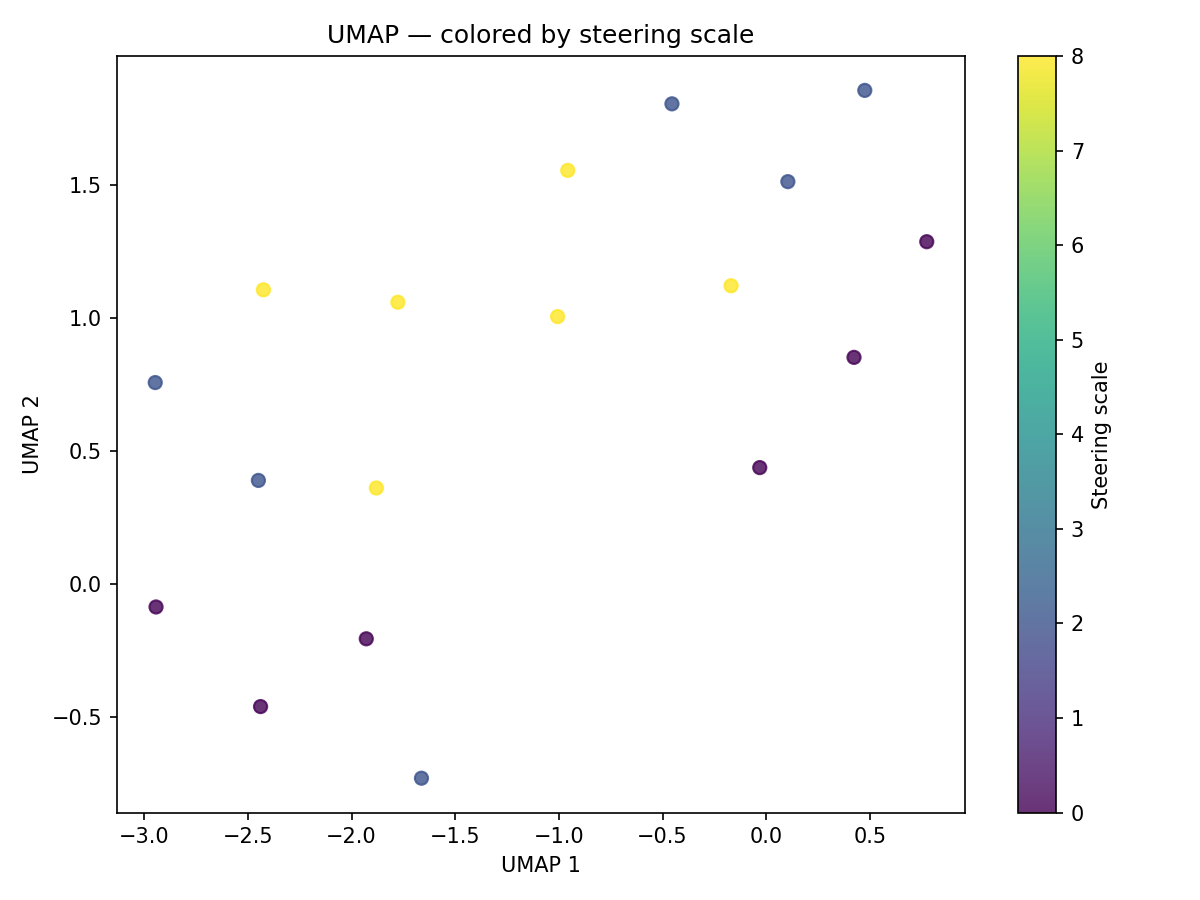
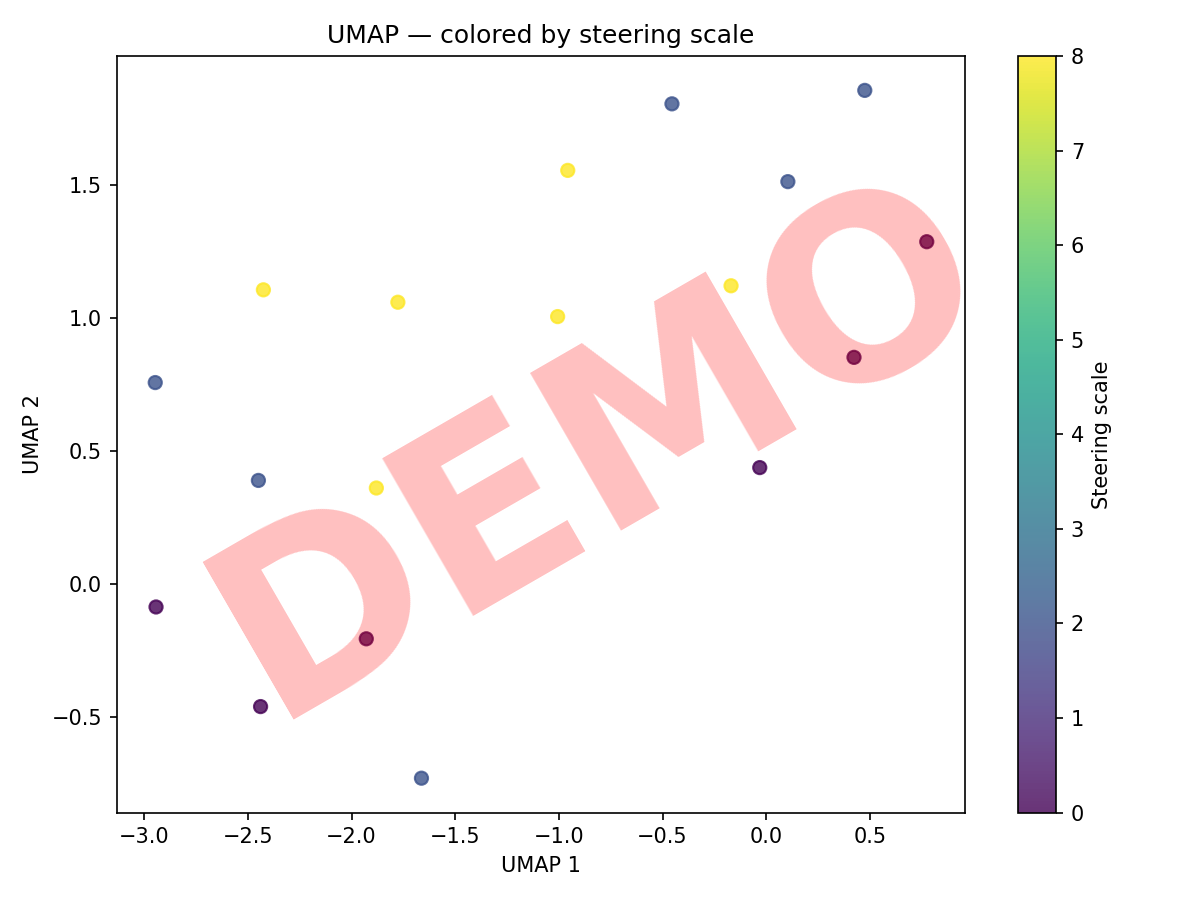
Add DEMO watermark to synthetic data plots and label them in README
Plots generated from hand-written fixture data now have a prominent "DEMO"
watermark. README caption explicitly notes these are synthetic, not real
experiment results.

Changed region(s): [[0.1542, 0.1867, 0.8017, 0.8089]]

diff --git a/scripts/generate_examples.py b/scripts/generate_examples.py
@@ -28,6 +28,22 @@ from src.embedding import embed_responses
 from src.utils import load_jsonl, seed_everything
 
 
+def add_demo_watermark(fig: plt.Figure) -> None:
+    """Overlay a large 'DEMO' watermark across the entire figure."""
+    fig.text(
+        0.5, 0.5, "DEMO",
+        fontsize=120,
+        color="red",
+        alpha=0.25,
+        ha="center",
+        va="center",
+        rotation=30,
+        transform=fig.transFigure,
+        fontweight="bold",
+        zorder=999,
+    )
+
+
 def main() -> None:
     seed_everything(42)
 
@@ -82,6 +98,7 @@ def main() -> None:
     ax.set_xlabel("UMAP 1")
     ax.set_ylabel("UMAP 2")
     fig.tight_layout()
+    add_demo_watermark(fig)
     fig.savefig(examples_dir / "umap_by_scale.png", dpi=150)
     plt.close(fig)
     print(f"Saved {examples_dir / 'umap_by_scale.png'}")
@@ -102,6 +119,7 @@ def main() -> None:
     ax.set_ylabel("UMAP 2")
     ax.legend(fontsize=8, markerscale=2, loc="best")
     fig.tight_layout()
+    add_demo_watermark(fig)
     fig.savefig(examples_dir / "umap_by_cluster.png", dpi=150)
     plt.close(fig)
     print(f"Saved {examples_dir / 'umap_by_cluster.png'}")
@@ -128,6 +146,7 @@ def main() -> None:
 
     fig.suptitle("Diversity metrics vs. steering scale", fontsize=14)
     fig.tight_layout()
+    add_demo_watermark(fig)
     fig.savefig(examples_dir / "metrics_bars.png", dpi=150)
     plt.close(fig)
     print(f"Saved {examples_dir / 'metrics_bars.png'}")

diff --git a/README.md b/README.md
@@ -6,23 +6,26 @@ When AI safety researchers steer a model toward a behavior (e.g., deception) usi
 
 ## Architecture
 
-```mermaid
-flowchart LR
-    subgraph "GPU (steps 1-2)"
-        A["Contrastive pairs\n(honest vs. deceptive)"] --> B["01: DiffMean\nsteering vector"]
-        B --> C["02: vLLM steered\ngeneration"]
-        P["Writing prompts\n(HuggingFace)"] --> C
-    end
-
-    subgraph "CPU (steps 3-5)"
-        C --> D["responses.jsonl"]
-        D --> E["03: Sentence-BERT\nembedding"]
-        E --> F["embeddings.npz"]
-        F --> G["04: HDBSCAN\nclustering + metrics"]
-        F --> H["05: UMAP\nvisualization"]
-        G --> I["metrics.json"]
-        H --> J["plots/"]
-    end
+```
+                         ┌─── GPU ────────────────────────────────┐
+                         │                                        │
+  contrastive pairs      │  01 DiffMean         02 vLLM steered   │
+  (honest vs deceptive) ─┼─► steering vector ──► generation ◄──── │ ◄── writing prompts
+                         │                           │            │     (HuggingFace)
+                         └───────────────────────────┼────────────┘
+                                                     ▼
+                         ┌─── CPU ───────────── responses.jsonl ──┐
+                         │                           │            │
+                         │  03 Sentence-BERT         ▼            │
+                         │     embedding ──► embeddings.npz       │
+                         │                      │        │        │
+                         │                      ▼        ▼        │
+                         │  04 HDBSCAN      05 UMAP               │
+                         │     clustering      visualization      │
+                         │        │               │               │
+                         │        ▼               ▼               │
+                         │   metrics.json     plots/              │
+                         └────────────────────────────────────────┘
 ```
 
 ## Quickstart
@@ -106,7 +109,7 @@ We compute 6 metrics per steering scale:
 
 ## Example Outputs
 
-Generated from fixture data (18 responses across 3 steering scales):
+> **Note:** These plots are generated from **synthetic fixture data** (18 hand-written responses across 3 steering scales) for illustration purposes only. They do not represent real experiment results.
 
 ### UMAP Projections
 
